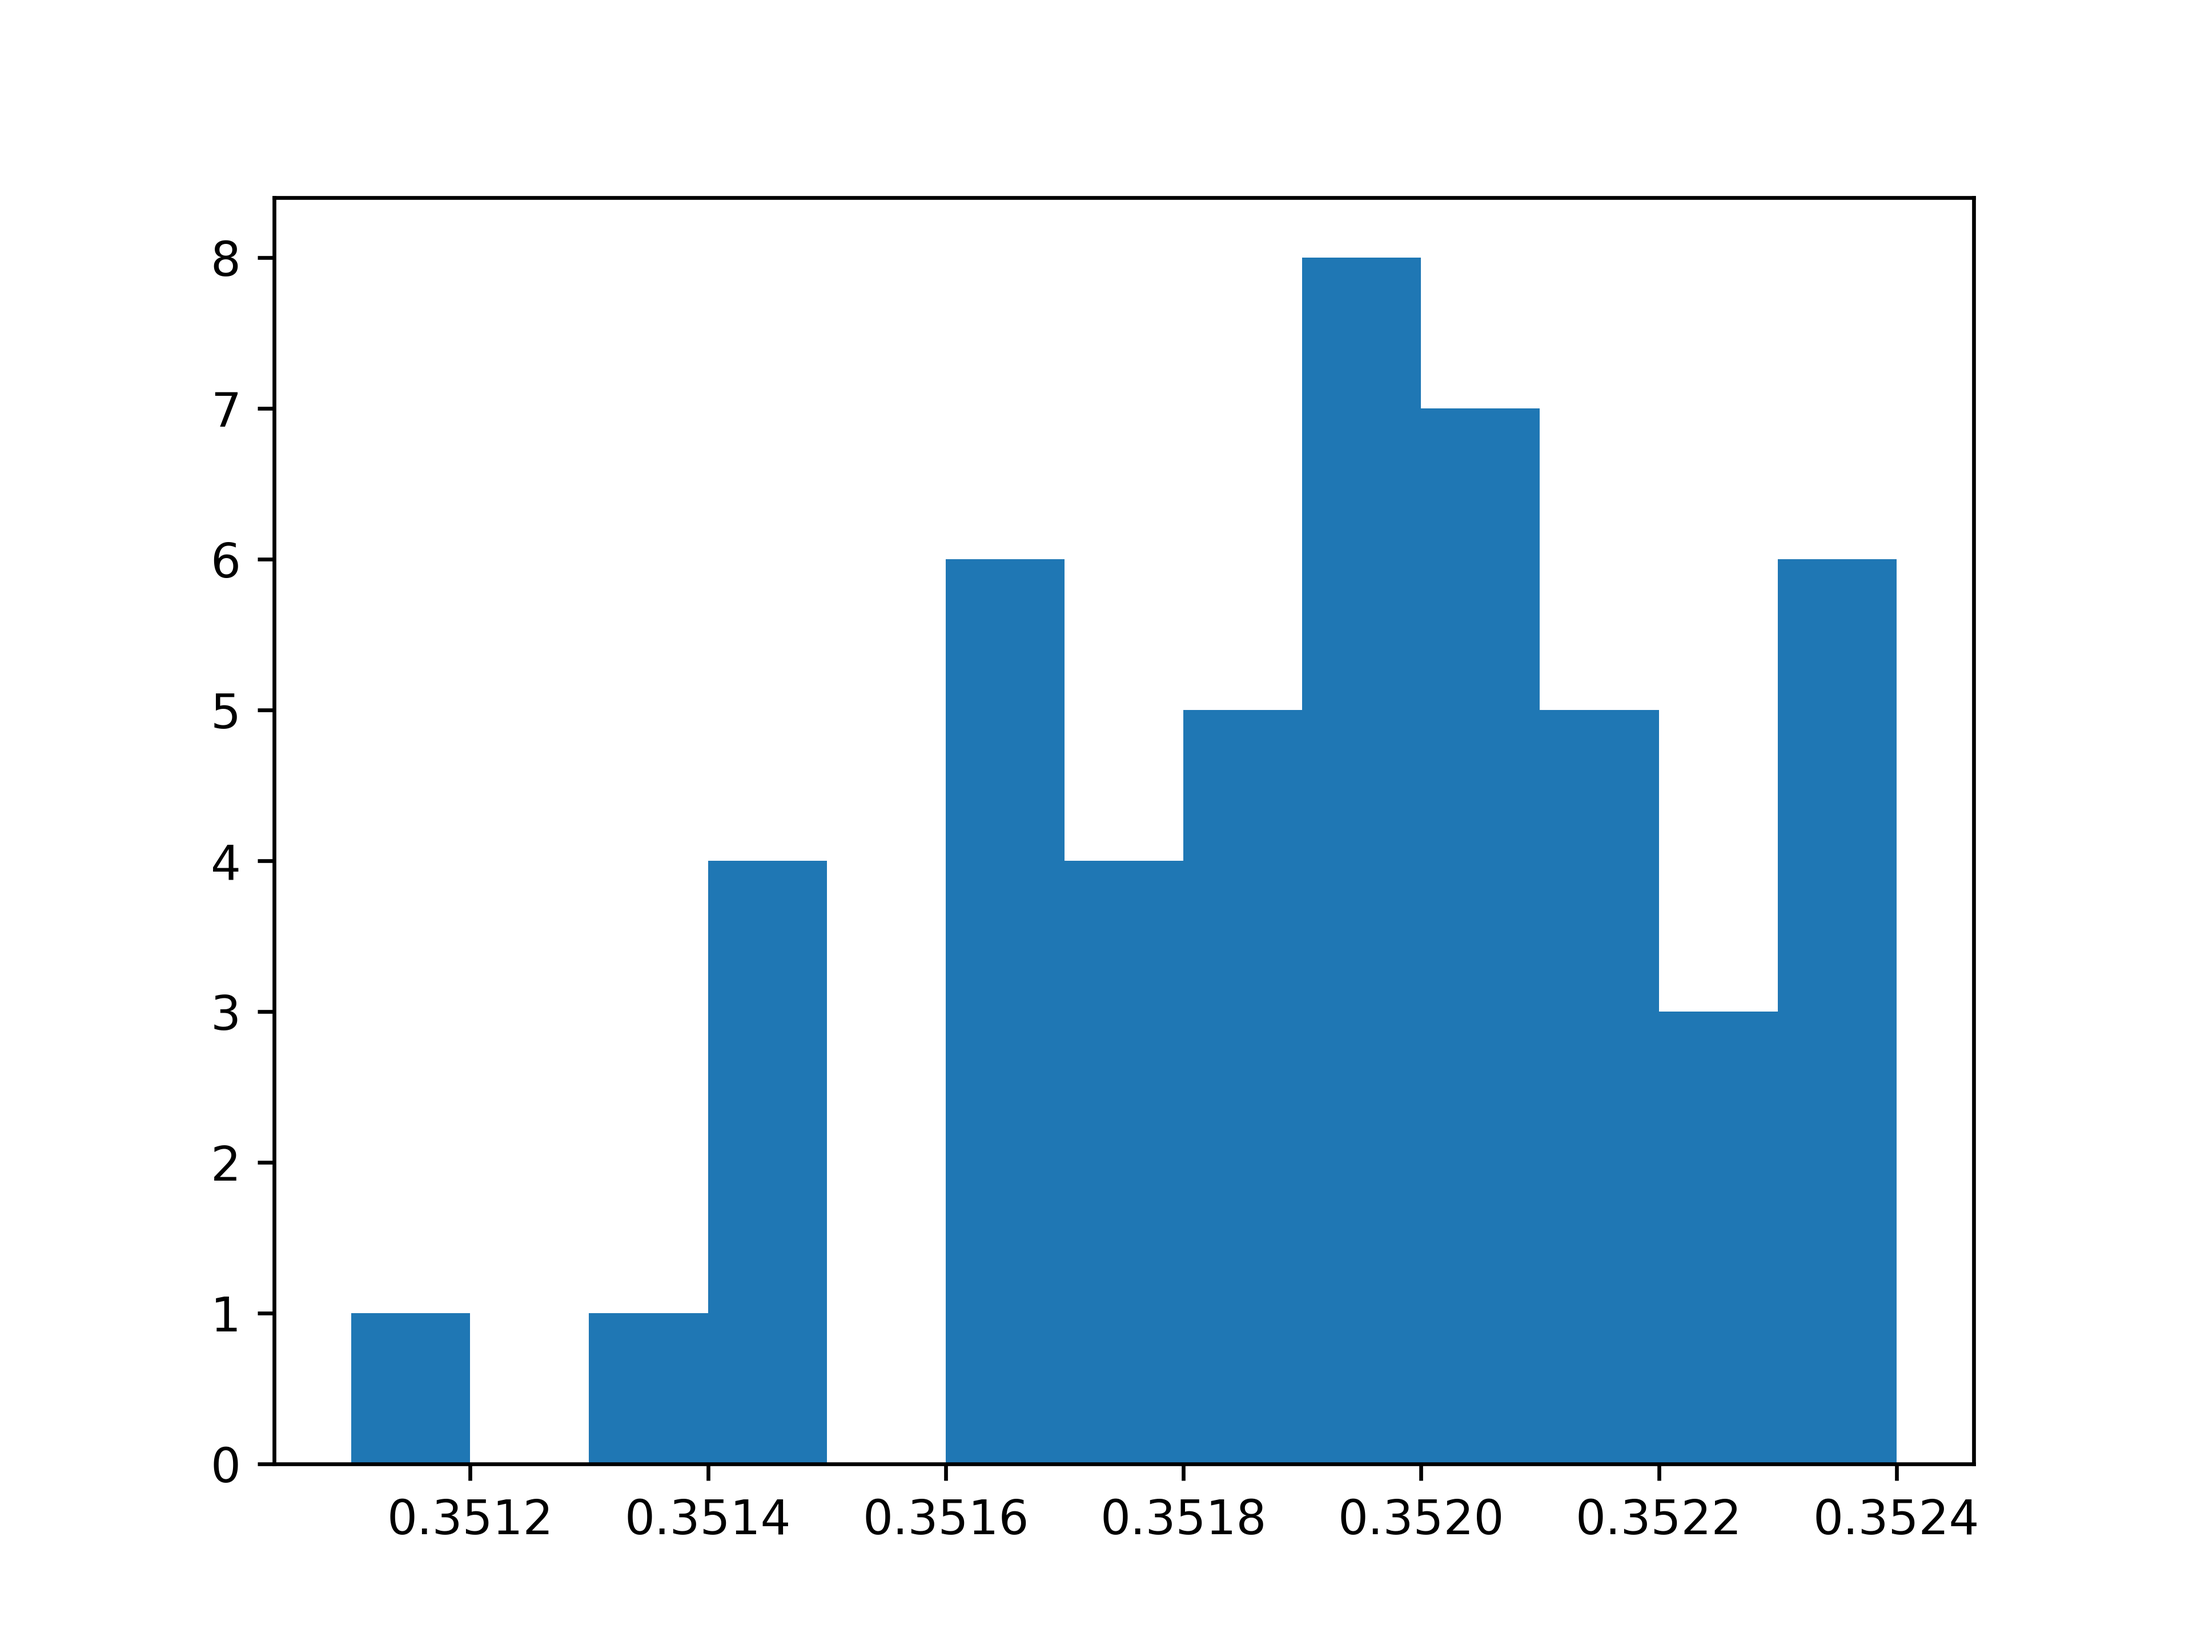
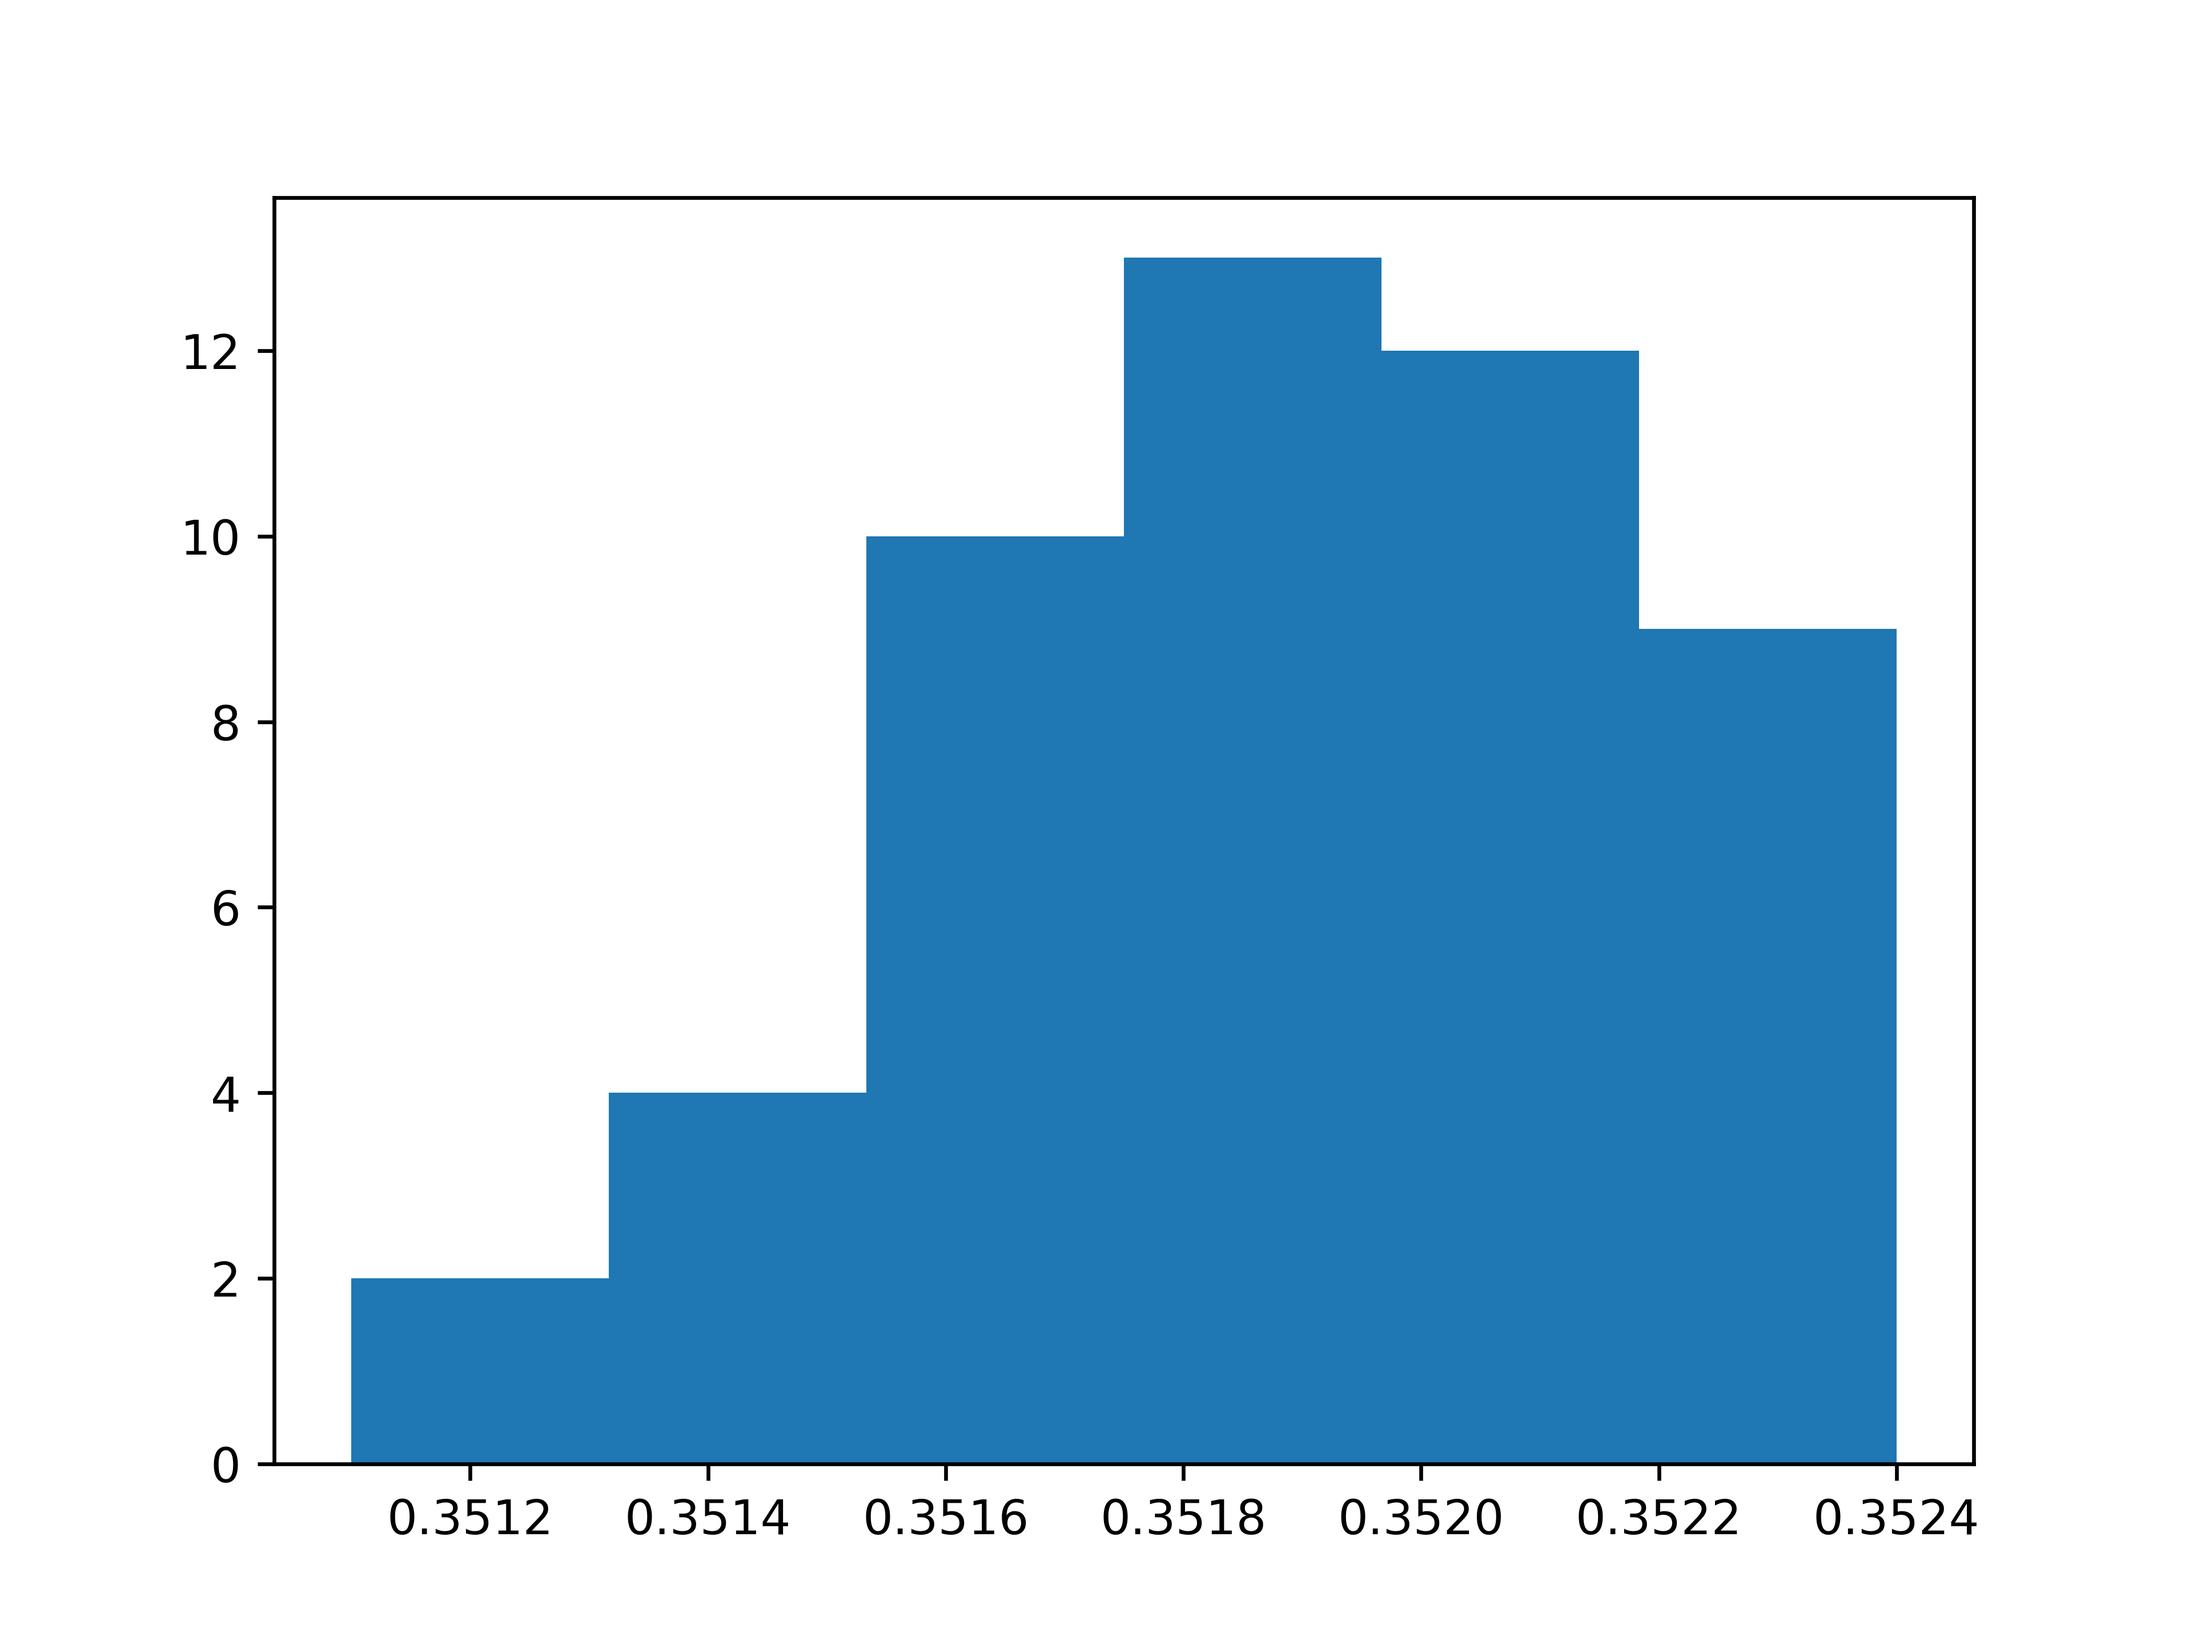
upd

diff --git a/2/script2.py b/2/script2.py
@@ -63,8 +63,8 @@ np.savetxt(file_path3, result_values3, delimiter=",")
 fig1, ax1 = plt.subplots()
 fig2, ax2 = plt.subplots()
 
-ax1.plot(uv_values, s_y, 'o-b', linewidth=0.8)
-ax2.plot(ug_values, s_x, 'o-b', linewidth=0.8)
+ax1.scatter(uv_values, s_y)
+ax2.scatter(ug_values, s_x)
 
 ax1.set_ylabel(r'$ S_y , mm / V $')
 ax2.set_ylabel(r'$ S_x , mm / V $')

diff --git a/1_b/script1.py b/1_b/script1.py
@@ -83,7 +83,7 @@ print('Дисперсия:', sigma)
 print('Границы интервала:', u2_left, u2_right)
 
 fig1, hist = plt.subplots()
-plt.hist(u_values2, bins=13)
+plt.hist(u_values2, bins=6)
 
 fig2, ax = plt.subplots()
 ax.scatter(numbs2, u_values2, s=15, color='indigo')
